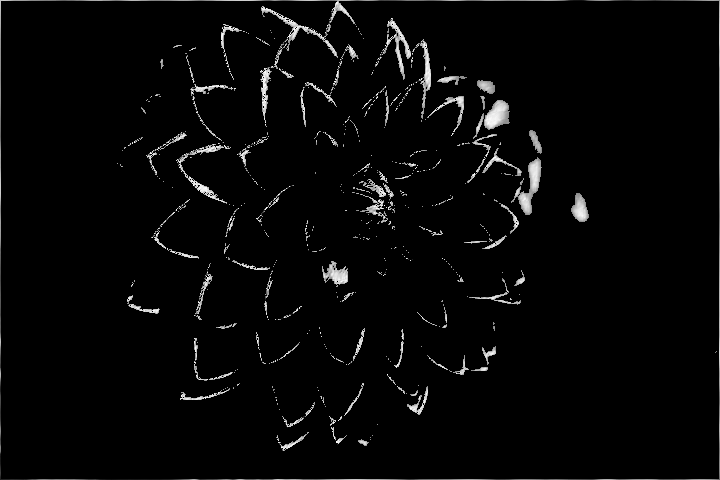
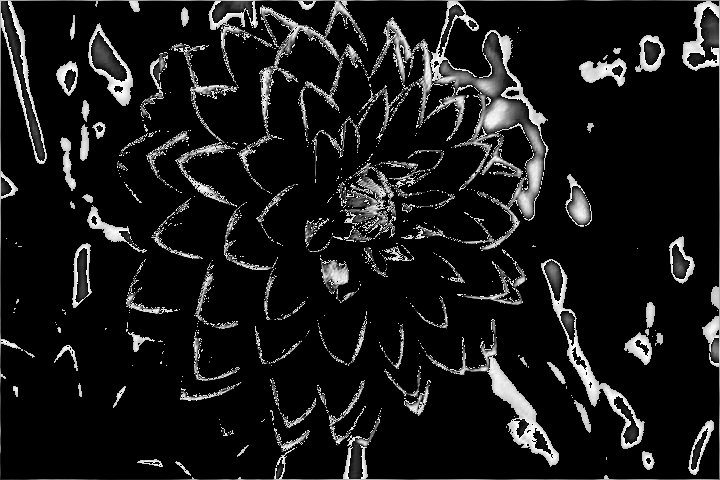
Added opencv examples

diff --git a/opencv/basic_functions.py b/opencv/basic_functions.py
@@ -1,0 +1,35 @@
+import cv2 as cv
+import numpy as np
+
+img = cv.imread('photos/flower.jpg')
+cv.imshow('Flower', img)
+
+#Grayscale convert
+#gray = cv.cvtColor(img, cv.COLOR_BGR2GRAY)
+#cv.imshow('Gray', gray)
+
+#Blur
+#blur = cv.GaussianBlur(img, (7,7), cv.BORDER_DEFAULT)
+#cv.imshow('Blur', blur)
+
+#Edge Detect
+#canny = cv.Canny(blur, 125, 175)
+#cv.imshow('Canny', canny)
+
+#Dilating the image
+#dilated = cv.dilate(canny, (7,7), iterations=3)
+#cv.imshow('Dilated', dilated)
+
+#Eroding
+#eroded = cv.erode(dilated, (7,7), iterations=3)
+#cv.imshow('Eroded', eroded)
+
+#Resize
+#resized = cv.resize(img, (1920,1080), interpolation=cv.INTER_CUBIC)
+#cv.imshow('Resized', resized)
+
+#Cropping
+cropped = img[50:200, 200:400]
+cv.imshow('Cropped', cropped)
+
+cv.waitKey(0)

diff --git a/opencv/transformations.py b/opencv/transformations.py
@@ -1,0 +1,32 @@
+import cv2 as cv
+import numpy as np
+
+img = cv.imread('photos/flower.jpg')
+cv.imshow('Flower', img)
+
+#Translation
+def translate(img,x,y):
+    transMat = np.float32([[1,0,x],[0,1,y]])
+    dimensions = (img.shape[1], img.shape[0])
+    return cv.warpAffine(img, transMat, dimensions)
+
+translated = translate(img, -100, 100)
+cv.imshow('Translated', translated)
+
+#Rotation
+def rotate(img, angle, rotPoint=None):
+    (height, width) = img.shape[:2]
+
+    if rotPoint is None:
+        rotPoint = (width // 2, height // 2)
+
+    rotMat = cv.getRotationMatrix2D(rotPoint, angle, scale=1.0)
+    dimensions = (width, height)
+
+    return cv.warpAffine(img, rotMat, dimensions)
+
+rotated = rotate(img, 360)
+cv.imshow('Rotated', rotated)
+
+
+cv.waitKey(0)

diff --git a/opencv/contour.py b/opencv/contour.py
@@ -1,0 +1,28 @@
+import cv2 as cv
+import numpy as np
+
+img = cv.imread('photos/flower.jpg')
+cv.imshow('Flower', img)
+
+blank = np.zeros(img.shape, dtype='uint8')
+cv.imshow('Blank', blank)
+
+gray = cv.cvtColor(img, cv.COLOR_BGR2GRAY)
+cv.imshow('Gray', gray)
+
+# blur = cv.GaussianBlur(gray, (5,5), cv.BORDER_DEFAULT)
+# cv.imshow('Blur', blur)
+
+# canny = cv.Canny(gray, 125, 175)
+# cv.imshow('Canny', canny)
+
+ret, thresh = cv.threshold(gray, 125, 255, cv.THRESH_BINARY)
+cv.imshow('Threshold', thresh)
+
+contours, hierarchies = cv.findContours(thresh, cv.RETR_LIST, cv.CHAIN_APPROX_NONE)
+print(f'{len(contours)} contour(s) found!')
+
+cv.drawContours(blank, contours, -1, color=(0,0,255), thickness=1)
+cv.imshow('Blank', blank)
+
+cv.waitKey(0)

diff --git a/opencv/draw_shapes.py b/opencv/draw_shapes.py
@@ -1,0 +1,30 @@
+import cv2 as cv
+import numpy as np
+
+#create blank image
+blank = np.zeros((500, 500, 3), dtype='uint8')
+cv.imshow('Blank', blank)
+
+
+#Paint Image a certain colour (cyan)
+#blank[:] = 255, 255, 0
+#cv.imshow('Painted', blank)
+
+#Draw a rectangle
+#cv.rectangle(blank, (0,0), (250,250), (0,255,0), 2)
+#cv.imshow('Rectangle', blank)
+
+#Draw a circle
+#cv.circle(blank, (250,250), radius=40, color=(0,0,255), thickness=-1)
+#cv.imshow('Circle', blank)
+
+#Draw a line
+#cv.line(blank, (100,100), (200,200), color=(255,0,0))
+#cv.imshow('Line', blank)
+
+#Write text
+cv.putText(blank, 'Hello', (250,250), color=(0,255,0), fontFace=cv.FONT_HERSHEY_COMPLEX, fontScale=1.0)
+cv.imshow('Text', blank)
+
+
+cv.waitKey(0)

diff --git a/opencv/opencv_video.py b/opencv/opencv_video.py
@@ -1,0 +1,24 @@
+import numpy as np
+import cv2 as cv
+
+cap = cv.VideoCapture(0)
+if not cap.isOpened():
+    print("Cannot open camera")
+    exit()
+while True:
+    # Capture frame-by-frame
+    ret, frame = cap.read()
+    # if frame is read correctly ret is True
+    if not ret:
+        print("Can't receive frame (stream end?). Exiting ...")
+        break
+    # Our operations on the frame come here
+    gray = cv.cvtColor(frame, cv.COLOR_BGR2GRAY)
+    #gray = cv.flip(gray, 0)
+    # Display the resulting frame
+    cv.imshow('frame', frame)
+    if cv.waitKey(1) == ord('q'):
+        break
+# When everything done, release the capture
+cap.release()
+cv.destroyAllWindows()

diff --git a/opencv/advanced/colour_channels.py b/opencv/advanced/colour_channels.py
@@ -1,0 +1,32 @@
+import cv2 as cv
+import numpy as np
+
+img = cv.imread('photos/flower.jpg')
+cv.imshow('Flower', img)
+
+#shows colour intensity
+b,g,r = cv.split(img)
+cv.imshow('Blue', b)
+cv.imshow('Green', g)
+cv.imshow('Red', r)
+
+print(img.shape)
+print(b.shape)
+print(g.shape)
+print(r.shape)
+
+merged = cv.merge([b,g,r])
+cv.imshow('Merged', merged)
+
+#To show actual colour of each channel
+blank = np.zeros(img.shape[:2], dtype='uint8')
+
+blue = cv.merge([b,blank,blank])
+green = cv.merge([blank,g,blank])
+red = cv.merge([blank,blank,r])
+
+cv.imshow('Blue colour', blue)
+cv.imshow('Green colour', green)
+cv.imshow('Red colour', red)
+
+cv.waitKey(0)

diff --git a/opencv/advanced/colour_spaces.py b/opencv/advanced/colour_spaces.py
@@ -1,0 +1,25 @@
+import cv2 as cv
+import matplotlib.pyplot as plt
+
+#BGR
+img = cv.imread('photos/flower.jpg')
+cv.imshow('Flower', img)
+
+#BGR to Greyscale
+gray = cv.cvtColor(img, cv.COLOR_BGR2GRAY)
+cv.imshow('Gray', gray)
+
+#BGR to HSV
+hsv = cv.cvtColor(img, cv.COLOR_BGR2HSV)
+cv.imshow('HSV', hsv)
+
+#BGR to LAB
+lab = cv.cvtColor(img, cv.COLOR_BGR2LAB)
+cv.imshow('LAB', lab)
+
+#BGR to RGB
+rgb = cv.cvtColor(img, cv.COLOR_BGR2RGB)
+plt.imshow(rgb)
+plt.show()
+
+cv.waitKey(0)

diff --git a/opencv/rescale.py b/opencv/rescale.py
@@ -1,0 +1,15 @@
+import cv2 as cv
+
+def rescaleFrame(frame, scale=0.75):
+    width = int(frame.shape[1] * scale)
+    height = int(frame.shape[0] * scale)
+
+    dimensions = width, height
+
+    return cv.resize(frame, dimensions, interpolation=cv.INTER_AREA)
+
+img = cv.imread('photos/flower.jpg')
+cv.imshow('flower', img)
+cv.imshow('flower_resize', rescaleFrame(img))
+
+cv.waitKey(0)

diff --git a/sobel_impl.py b/sobel_impl.py
@@ -25,7 +25,7 @@ def sobel(image):
             gy = gradientY[0][2] + gradientY[1][2] + gradientY[2][2] - gradientY[0][0] + gradientY[1][0] + gradientY[2][0]
 
             total = abs(gx + gy)
-            if total > 900:
+            if total > 700:
                 sobel[i][j] = total
             else:
                 sobel[i][j] = 0

diff --git a/opencv/opencv_image.py b/opencv/opencv_image.py
@@ -1,0 +1,9 @@
+import cv2 as cv
+import sys
+
+img = cv.imread(cv.samples.findFile('photos/flower.jpg'))
+
+cv.imshow("Display window", img)
+k = cv.waitKey(0)
+if k == ord("s"):
+    cv.imwrite("flower.png", img)

diff --git a/sobel_pil.py b/sobel_pil.py
@@ -1,0 +1,7 @@
+from PIL import Image, ImageFilter
+
+with Image.open('flower.jpg') as image:
+    image = image.convert('L')
+
+    sobel = image.filter(ImageFilter.FIND_EDGES)
+    sobel.save('pil_sobel_out.png')
